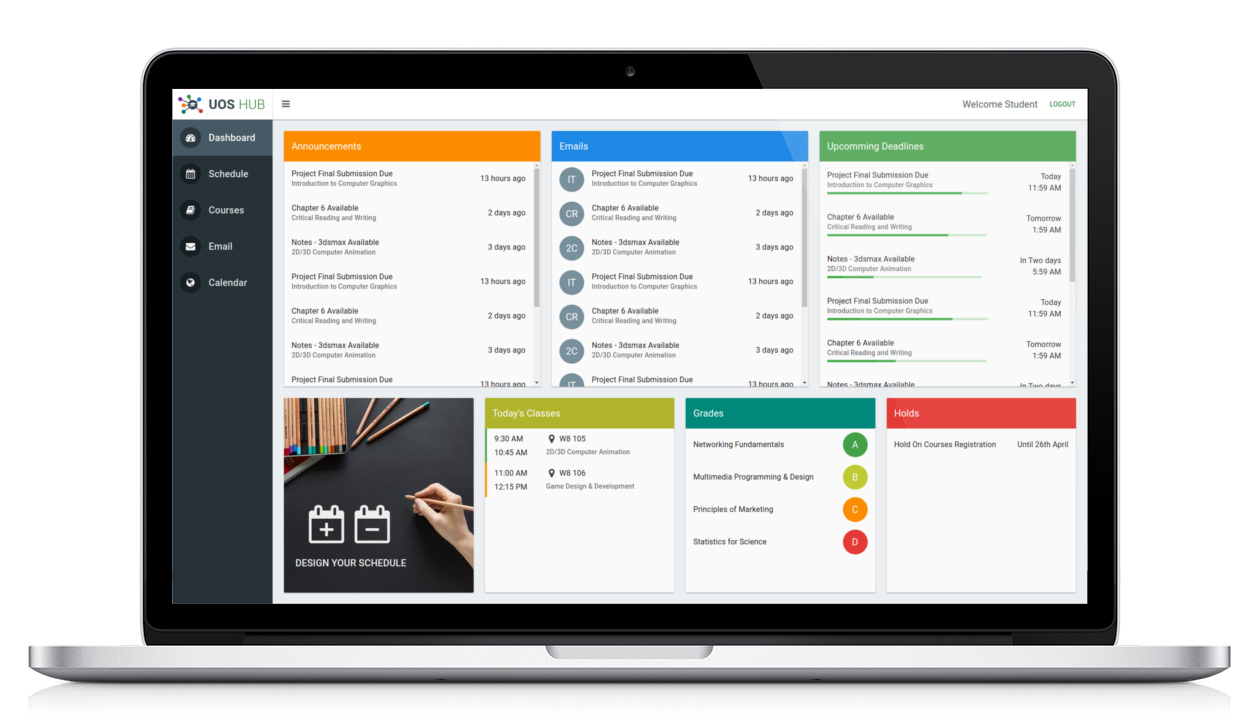
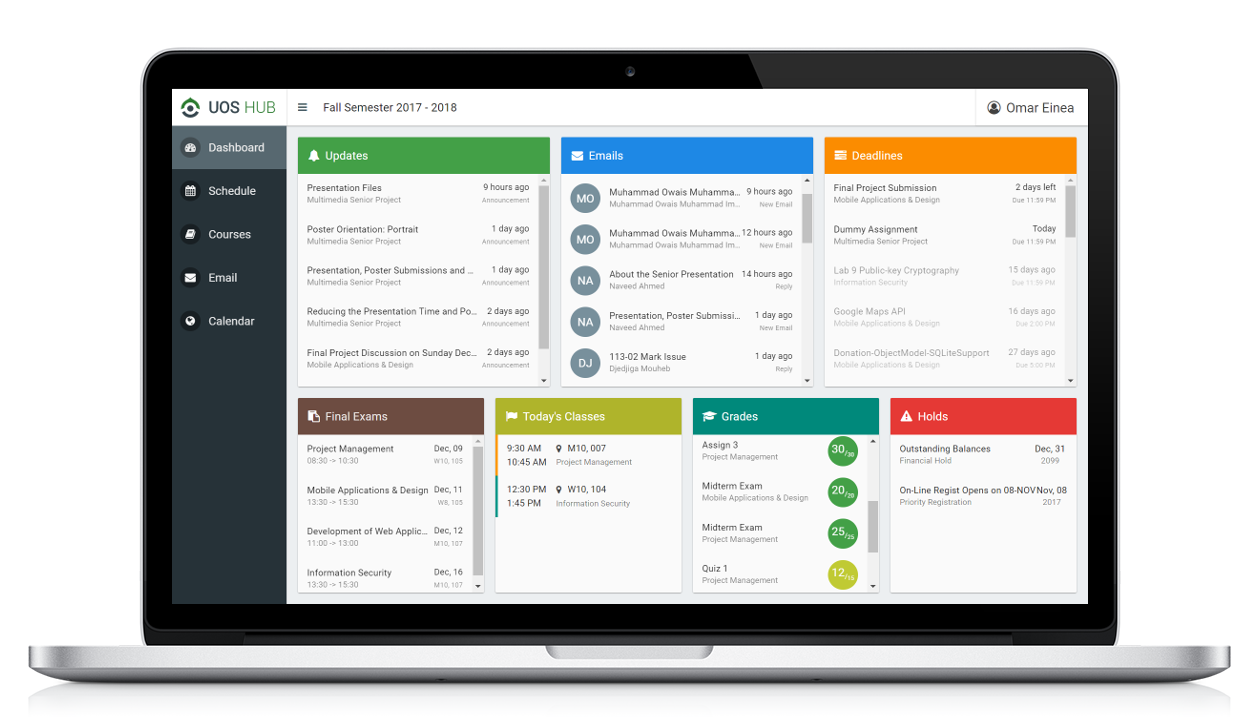
Update Website Screenshots & Copy Dashbard Cards To Courses

Changed region(s): [[0.1238, 0.1222, 0.8667, 0.8556], [0.8048, 0.4278, 0.8357, 0.5194]]

diff --git a/courses.html b/courses.html
@@ -26,7 +26,7 @@
                         <h3>{{ document.title }}</h3>
                         <p>{{ document.file }}</p>
                     </div>
-                    <div class="md-list-item-text fixed-56-width">
+                    <div class="md-list-item-text fixed-56-width download">
                         <md-button ng-hide="mass" ng-href="{{ document.url }}" download="{{ document.file }}" name="{{ document.file }}" class="md-icon-button">
                             <md-icon md-font-icon="fa fa-download fa-2x"></md-icon>
                         </md-button>
@@ -45,9 +45,9 @@
                         <span flex>Updates</span>
                     </div>
                 </md-toolbar>
-                <md-content flex>
-                    <md-list flex>
-                        <md-list-item class="md-2-line" ng-click="null" ng-repeat="update in $ls.updates | inCourse: $ls.selected.course | orderBy: '-time'">
+                <md-content>
+                    <md-list>
+                        <md-list-item class="md-2-line removeable" ng-repeat="update in $ls.updates | inCourse: $ls.selected.course | orderBy: '-time'">
                             <div class="md-list-item-text">
                                 <h3>{{ update.title }}</h3>
                             </div>
@@ -55,26 +55,38 @@
                                 <h3>{{ update.time | timeDistance }}</h3>
                                 <p class="md-caption">{{ update.event }}</p>
                             </div>
+                            <div class="md-secondary">
+                                <md-button class="md-icon-button" ng-click="dismissUpdate(update.dismiss)">
+                                    <md-icon md-font-icon="fa fa-trash fa-1x"></md-icon>
+                                </md-button>
+                            </div>
                         </md-list-item>
                     </md-list>
                 </md-content>
             </md-card>
-            <md-card flex>
+            <md-card flex id="confirm">
                 <md-toolbar md-colors="{background: 'orange-600', color: 'grey-A100'}">
                     <div class="md-toolbar-tools" flex>
                         <md-icon md-font-icon="fa fa-tasks fa-fw"></md-icon>
                         <span flex>Deadlines</span>
                     </div>
                 </md-toolbar>
-                <md-content flex>
-                    <md-list flex>
-                        <md-list-item class="md-2-line" ng-repeat="deadline in $ls.deadlines | inCourse: $ls.selected.course | orderBy: '-dueDate'" ng-click="null">
+                <md-content>
+                    <md-list>
+                        <md-list-item class="md-2-line" ng-class="beforeDue(deadline.dueDate) ? 'removeable' : 'archived'"
+                                      ng-repeat="deadline in $ls.deadlines | inCourse: $ls.selected.course | orderBy: '-dueDate'">
                             <div class="md-list-item-text" flex>
                                 <h3>{{ deadline.title }}</h3>
                             </div>
                             <div class="md-list-item-text align-right">
                                 <h3>{{ deadline.dueDate | timeDistance }}</h3>
                                 <p class="md-caption">Due {{ deadline.dueDate | date: 'shortTime' }}</p>
+                            </div>
+                            <div class="md-secondary">
+                                <md-button class="md-icon-button" submit="{{ deadline.courseId }}/{{ deadline.contentId }}/">
+                                    <md-icon md-font-icon="fa fa-upload fa-1x"></md-icon>
+                                    <input type="file" style="display: none" multiple>
+                                </md-button>
                             </div>
                         </md-list-item>
                     </md-list>
@@ -106,7 +118,7 @@
                         <span flex>Email My Doctor</span>
                     </div>
                 </md-toolbar>
-                <md-content flex layout-padding>
+                <md-content flex layout-padding style="position: relative">
                     <div layout="column">
                         <md-input-container style="margin-top: 4px" class="md-block">
                             <label>Subject</label>
@@ -116,10 +128,8 @@
                             <label>Body</label>
                             <textarea rows="2" ng-model="body"></textarea>
                         </md-input-container>
-                        <div layout="row" style="position: relative">
-                            <md-button class="md-raised no-margin" ng-click="sendEmail($event, subject, body, $ls.selected.course)"
-                                       md-colors="{background: 'light-blue-500', color: 'grey-A100'}">Send</md-button>
-                        </div>
+                        <md-button class="md-raised no-margin" ng-click="sendEmail($event, subject, body, $ls.selected.course)"
+                                   style="position: absolute; bottom: 16px; width: calc(100% - 32px)" md-colors="{background: 'light-blue-500', color: 'grey-A100'}">Send</md-button>
                     </div>
                 </md-content>
             </md-card>

diff --git a/email.html b/email.html
@@ -61,7 +61,7 @@
         </md-content>
     </md-card>
     <md-card ng-if="$ls.writingEmail" flex>
-        <md-content layout-padding flex>
+        <md-content layout-padding flex style="position: relative">
             <md-card-title>
                 <md-card-title-text>
                     <span class="md-display-1">New Email</span>
@@ -82,7 +82,7 @@
                     <label>Add a message here</label>
                     <textarea rows="8" ng-model="body"></textarea>
                 </md-input-container>
-                <div layout="row" flex>
+                <div layout="row" flex style="position: absolute; bottom: 16px">
                     <md-button class="md-raised" ng-click="sendEmail($event, to, subject, body)"
                                md-colors="{background: 'light-blue-500', color: 'grey-A100'}">Send</md-button>
                     <md-button class="md-raised" ng-click="$ls.writingEmail = false"

diff --git a/js/courses.js b/js/courses.js
@@ -49,6 +49,14 @@ function($scope, $ls, $http, $refresh, $toolbar, $toast, $mdDialog) {
         });
     };
 
+    $scope.dismissUpdate = function(updateId) {
+        $http({
+            method: "delete",
+            url: "/api/updates/" + updateId + "/"
+        }).then(nothing, error);
+        find($ls.updates, "dismiss", updateId, "delete");
+    };
+
     $scope.sendEmail = function($event, subject, body, course) {
         $mdDialog.show(
             $mdDialog.confirm()
@@ -69,6 +77,10 @@ function($scope, $ls, $http, $refresh, $toolbar, $toast, $mdDialog) {
                 $toast("Failed to send email!");
             });
         }, nothing);
+    };
+
+    $scope.beforeDue = function(date) {
+        return new Date(date) > today;
     };
 
     $refresh(["content", "updates"])
